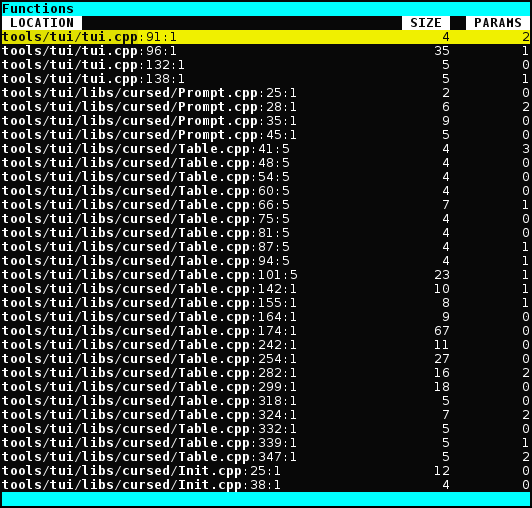
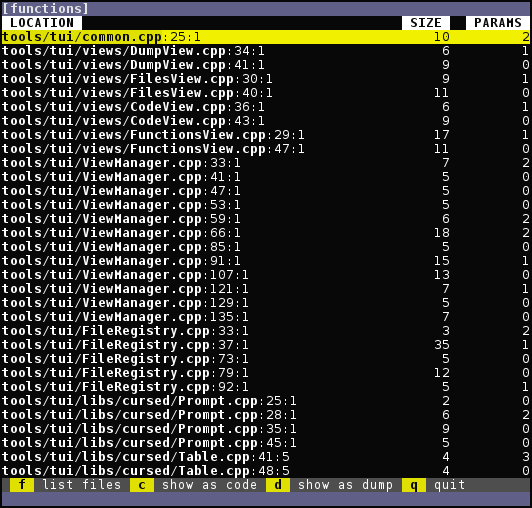
Update screenshot and README

diff --git a/tools/tui/README.md b/tools/tui/README.md
@@ -5,12 +5,12 @@
 ## Description ##
 
 `zs-tui` is a TUI version for processing files, whose scope is yet to be
-defined.  So far it lists functions along with their size and parameter count
-and allows viewing those functions in source code as well as viewing dump of
+defined.  So far it lists files or functions along with their size and parameter
+count and allows viewing those items in source code as well as viewing dump of
 their internal representation.
 
 It's not clear if it's worth adding diffing functionality here.  It's probably
 not, which means that this tool will be mostly for interactive browsing or
-similar activities and other tools might be created out of it.
+similar activities and other tools might be extracted out of it.
 
 [zograscope]: ../../README.md
